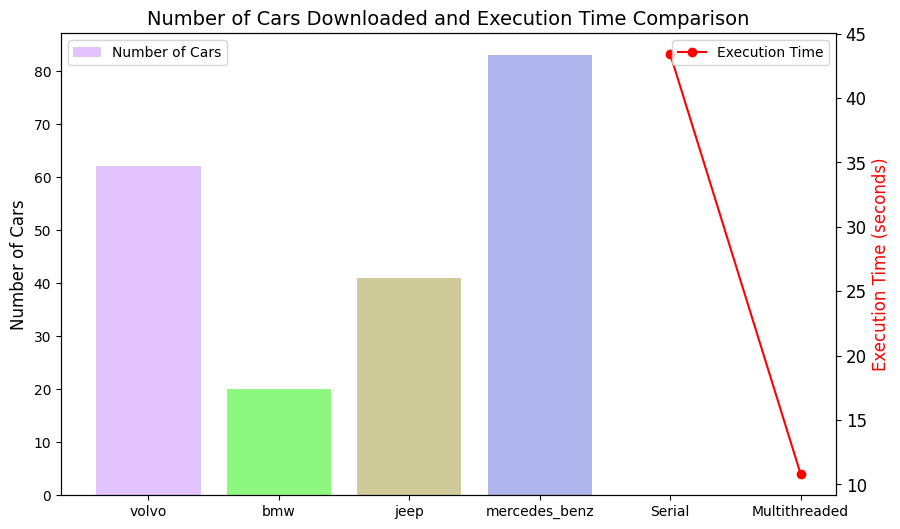
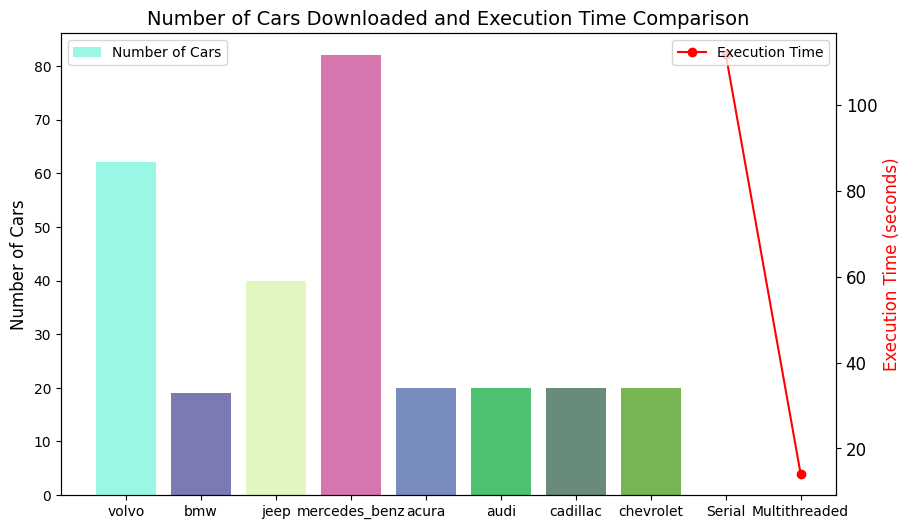
update

diff --git a/cars_scraper.py b/cars_scraper.py
@@ -219,7 +219,7 @@ class CarsScraper:
 # Example usage
 # more categories >> 'acura','audi','cadillac','chevrolet','dodge','ford','honda','hyundai','infiniti','jaguar','bugatti','aston_martin','lexus'
         
-categories = ['volvo', 'bmw', 'jeep', 'mercedes_benz']
+categories = ['volvo', 'bmw', 'jeep', 'mercedes_benz','acura','audi','cadillac','chevrolet',]
 url = "https://www.cars.com/shopping/results/?makes[]=volvo&maximum_distance=all&stock_type=all&zip="
 
 # Example with max_pages

diff --git a/README.md b/README.md
@@ -9,6 +9,7 @@ Welcome to the Cars.com Scraper, a Python script designed for efficient scraping
 - [Installation](#installation)
 - [Usage](#usage)
 - [Example](#example)
+- [Summary Chart](#summary-chart)
 - [Contributing](#contributing)
 - [License](#license)
 
@@ -89,6 +90,11 @@ scraper.scrape_cars_multithreaded()
 # Summary Chart
 scraper.summary_chart()
 ```
+## Summary Chart
+
+The detailed summary chart provides insights into the number of cars downloaded for each category and compares the execution time between serial and multithreaded implementations.
+
+![Summary Chart](summary_chart.png)
 
 ## Contributing
 
